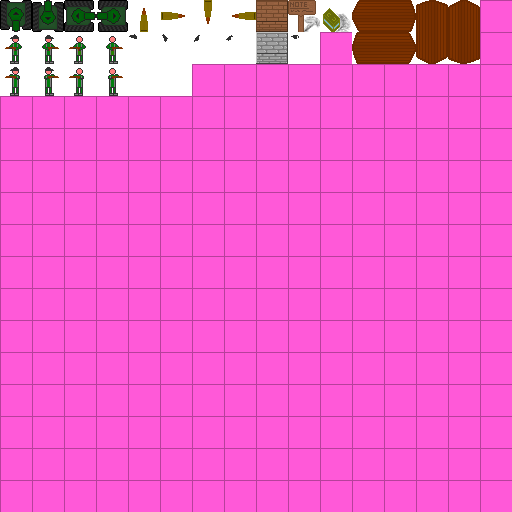
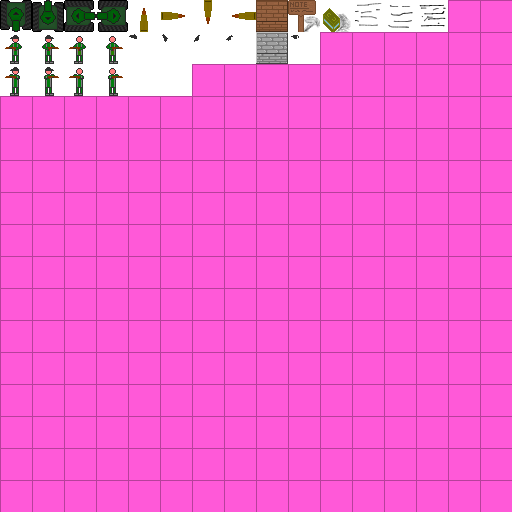
Added scraping ground... still needs improvment

Changed region(s): [[0.6875, 0.0, 0.9375, 0.125]]

diff --git a/game/screen/ScreenGame.java b/game/screen/ScreenGame.java
@@ -4,22 +4,19 @@ import game.Controls;
 import game.Game;
 import game.Map;
 import game.entity.Entity;
+import game.entity.EntityGroundScrape;
 import game.entity.Player;
 import game.tile.Tile;
 import game.triggers.Trigger;
-import game.triggers.TriggerPlate;
 import game.utils.FileSaver;
-import game.utils.MathHelper;
 import game.utils.SpriteSheet;
 
 import java.awt.Color;
 import java.awt.Graphics;
-import java.awt.Point;
 import java.awt.Rectangle;
 import java.awt.event.KeyEvent;
 import java.awt.event.MouseEvent;
 import java.util.ArrayList;
-import java.util.HashMap;
 
 public class ScreenGame extends Screen
 {
@@ -82,6 +79,10 @@ public class ScreenGame extends Screen
 	public void spawnEntity(Entity entity)
 	{
 		entities.add(entity);
+		if(entity.renderFirst)
+		{
+			entities.add(0, entity);
+		}
 	}
 
 	@Override

diff --git a/game/entity/EntityBox.java b/game/entity/EntityBox.java
@@ -36,12 +36,14 @@ public class EntityBox extends Entity {
 
 		ArrayList<Entity> eib = ((ScreenGame)game.currentScreen).getEntitiesInBox(new Rectangle(x == 1 ? this.x + - 9 : this.x - 24, y == 1 ?  this.y - 4 : this.y - 24, Game.SIZE, Game.SIZE));
 		for (Entity e : eib) {
-			if (!(e instanceof EntityBox)) {
+			if (!(e instanceof EntityBox) && !(e instanceof EntityGroundScrape)) {
 				return false;
 			}
 		}
-			super.tryMoveEntity(x, y);
-				return false;
+		if(rand.nextInt(100) == 1)
+			((ScreenGame)game.currentScreen).spawnEntity(new EntityGroundScrape(this.x, this.y));
+		super.tryMoveEntity(x, y);
+		return false;
 		
 		
 		

diff --git a/game/entity/Player.java b/game/entity/Player.java
@@ -37,7 +37,7 @@ public class Player extends Entity {
 	public boolean tryMoveEntity(int x, int y) {	
 		ArrayList<Entity> eib = game2.getEntitiesInBox(new Rectangle(x == 1 ? this.x + - 9 : this.x - 24, y == 1 ?  this.y - 4 : this.y - 24, Game.SIZE, Game.SIZE));
 			for (Entity e : eib) {
-				if (!(e instanceof Player)) {
+				if (!(e instanceof Player) && !(e instanceof EntityGroundScrape)) {
 					e.onCollideWithPlayer(x, y, this);
 					return false;
 				}

diff --git a/game/entity/EntityGroundScrape.java b/game/entity/EntityGroundScrape.java
@@ -1,0 +1,16 @@
+package game.entity;
+
+import java.util.Random;
+
+public class EntityGroundScrape extends Entity
+{
+	Random rand;
+	public EntityGroundScrape(int x, int y)
+	{
+		this.x = x;
+		this.y = y;
+		rand = new Random();
+		this.renderFirst = true;
+		sprite = 11+rand.nextInt(2);
+	}
+}

diff --git a/game/entity/Entity.java b/game/entity/Entity.java
@@ -17,6 +17,7 @@ public class Entity implements Serializable {
 	public int x = 59, y = 50;
 	private int speedMultiplier = 2;
 	public boolean forRemoval = false;
+	public boolean renderFirst = false;
 	int health = 20;
 
 	public Entity(ScreenGame game) {
